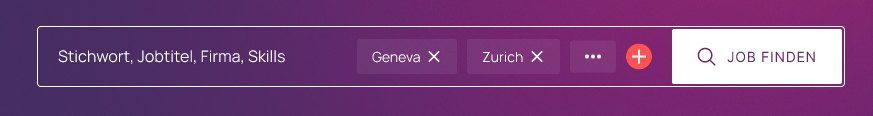
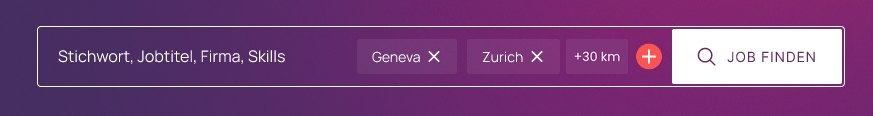
Rocken case: copy, results, monetisation (#20)
* Rocken case: English copy edit, Designer field removed

Claude-Session: https://claude.ai/code/session_01KrCcaaPpT7xGfxyrtmaZ9B

* Rocken case: period matches the About page (May 2022 – Mar 2023)

Claude-Session: https://claude.ai/code/session_01KrCcaaPpT7xGfxyrtmaZ9B

* Rocken case: Findings / Solution instead of Research / Solutions

Claude-Session: https://claude.ai/code/session_01KrCcaaPpT7xGfxyrtmaZ9B

* Rocken case: +30 km radius chip on the search screenshot, described in the solution

Claude-Session: https://claude.ai/code/session_01KrCcaaPpT7xGfxyrtmaZ9B

* Rocken case: search result −26% searches with no results

Claude-Session: https://claude.ai/code/session_01KrCcaaPpT7xGfxyrtmaZ9B

* Rocken Jobs: result +14% visitor-to-application conversion YoY

Claude-Session: https://claude.ai/code/session_01KrCcaaPpT7xGfxyrtmaZ9B

* Rocken Jobs: About, Challenge and Result in three columns

Claude-Session: https://claude.ai/code/session_01KrCcaaPpT7xGfxyrtmaZ9B

* Rocken Talent: colour key for the home page moved from the screenshot into the page

Claude-Session: https://claude.ai/code/session_01KrCcaaPpT7xGfxyrtmaZ9B

* Rocken Talent: monetisation model as three plans with the logic behind the limits

Claude-Session: https://claude.ai/code/session_01KrCcaaPpT7xGfxyrtmaZ9B

* Rocken Talent: monetisation copy tightened

Claude-Session: https://claude.ai/code/session_01KrCcaaPpT7xGfxyrtmaZ9B

* Rocken Talent: monetisation plans as pricing cards
[…]

Changed region(s): [[0.6495, 0.3621, 0.7732, 0.6207]]

diff --git a/index.html b/index.html
@@ -399,6 +399,29 @@ img[src$="rocken-logo.svg"],img[src$="asalart-logo.png"],img[src$="rocken-wordma
 .wr-res{display:flex;align-items:flex-end;justify-content:space-between;gap:16px;background:var(--panel);border-radius:16px;padding:22px 22px 24px;min-height:92px;transition:background-color .45s}
 .wr-res__label{display:inline-flex;align-items:center;gap:8px;font-size:16px;line-height:1.3;color:var(--ink)}
 .wr-res__up{width:12px;height:12px;color:var(--green);flex:none}
+/* Talent monetisation: plans as pricing cards */
+.plans{list-style:none;margin:30px 0 0;padding:0;display:grid;grid-template-columns:repeat(3,minmax(0,1fr));gap:16px;align-items:stretch}
+.plan{display:flex;flex-direction:column;background:var(--panel);border-radius:20px;padding:24px 24px 26px;box-shadow:0 1px 0 var(--tint-05);transition:background-color .45s}
+.plan--free{--plan:#2FA84F;--plan-bg:rgba(129,218,136,.22)}
+.plan--credits{--plan:#8A5CF0;--plan-bg:rgba(181,140,245,.2)}
+.plan--month{--plan:#fff;--plan-bg:rgba(255,255,255,.18);background:linear-gradient(150deg,#3A3FD9 0%,#4C6BF0 55%,#43B6F0 100%);color:#fff}
+.plan__k{align-self:flex-start;margin:0 0 22px;padding:5px 11px;border-radius:999px;background:var(--plan-bg);color:var(--plan);font-size:12px;font-weight:600;letter-spacing:.08em;text-transform:uppercase;line-height:1.2}
+.plan__v{margin:0;font-size:32px;line-height:1.1;font-weight:500;letter-spacing:-.02em;color:var(--ink)}
+.plan__t{margin:6px 0 20px;padding-bottom:20px;border-bottom:1px solid var(--tint-12);font-size:15px;color:var(--muted)}
+.plan--month .plan__v{color:#fff}.plan--month .plan__t{color:rgba(255,255,255,.75);border-color:rgba(255,255,255,.22)}
+.block .plan__list{margin:0;padding:0;list-style:none;display:flex;flex-direction:column;gap:10px;font-size:15px;line-height:1.4;color:var(--ink-2)}
+.block .plan__list li{display:flex;align-items:flex-start;gap:10px;margin:0}
+.plan--month .plan__list{color:#fff!important}
+.plan__ck{width:16px;height:16px;flex:none;margin-top:1px;color:var(--plan)}
+.plan-logic{margin-top:24px}
+@media (max-width:900px){.plans{grid-template-columns:minmax(0,1fr)}}
+.block .goal-key{list-style:none;margin:6px 0 16px;padding:0;display:flex;flex-wrap:wrap;gap:8px 22px;font-size:15px;color:var(--ink-2)}
+.block .goal-key li{display:flex;align-items:center;gap:8px;margin:0}
+.goal-key{transition:opacity .3s}.goal-key.is-off{opacity:0}
+.goal-key i{width:12px;height:12px;border-radius:50%;flex:none}
+.rk-result .res-num{display:block;margin:0 0 4px;font-size:34px;line-height:1.1}
+.rk-result__note{margin:6px 0 0;font-size:14px;color:var(--muted)}
+.res-num{font-size:28px;font-weight:500;letter-spacing:-.01em;color:var(--ink);margin-right:10px;vertical-align:-3px}
 .wr-why{margin-top:28px;max-width:760px;padding-left:20px;border-left:2px solid var(--drop)}
 .wr-why__k{font-weight:600;margin:0 0 6px;color:var(--ink)}
 .wr-why p{margin:0;font-size:16px;line-height:1.55;color:var(--ink-2)}
@@ -473,6 +496,7 @@ img[src$="rocken-logo.svg"],img[src$="asalart-logo.png"],img[src$="rocken-wordma
 .section{padding-top:90px}
 .section__logo{display:block;width:203px;margin:0 auto 100px}
 .two{display:grid;grid-template-columns:repeat(2,minmax(0,1fr));gap:40px}
+.two.two--3{grid-template-columns:repeat(3,minmax(0,1fr))}
 .h2{font-size:25px;font-weight:700;line-height:1.56;margin:0 0 14px}
 .h3{font-size:16px;font-weight:700;margin:0 0 10px}
 .text{font-size:16px;line-height:25px}
@@ -533,7 +557,7 @@ img[src$="rocken-logo.svg"],img[src$="asalart-logo.png"],img[src$="rocken-wordma
 .lightbox__close{position:fixed;top:max(16px,env(safe-area-inset-top,0px));right:max(16px,env(safe-area-inset-right,0px));width:44px;height:44px;border:0;border-radius:50%;background:#fff;color:#000;font:700 22px/1 var(--font);cursor:pointer}
 @media (max-width:900px){
   .meta{grid-template-columns:1fr 1fr}
-  .products,.two,.compare{grid-template-columns:minmax(0,1fr)}
+  .products,.two,.two.two--3,.compare{grid-template-columns:minmax(0,1fr)}
   .sub{grid-template-columns:1fr}
   .subnav{position:static;flex-direction:row;flex-wrap:wrap;gap:8px 20px}
   .personas{grid-template-columns:1fr}
@@ -678,37 +702,36 @@ layout();})();</script></section>
     <div><dt>Role</dt><dd>Product designer</dd></div>
     <div><dt>Category</dt><dd>Human Resources</dd></div>
     <div><dt>Location of product</dt><dd>Switzerland</dd></div>
-    <div><dt>Tools</dt><dd>Figma, Google Analitics, Google Optimize, Hotjar</dd></div>
-    <div><dt>Period of time</dt><dd>May 2022 - till present</dd></div>
-    <div><dt>Designer</dt><dd>Pavlo Chenchyk</dd></div>
+    <div><dt>Tools</dt><dd>Figma, Google Analytics, Google Optimize, Hotjar</dd></div>
+    <div><dt>Period of time</dt><dd>May 2022 – Mar 2023</dd></div>
   </dl>
-  <p class="note">Some data were hidden for privacy reasons</p>
+  <p class="note">Some data is hidden for privacy reasons</p>
 
   <div class="products">
     <article class="product">
       <img src="assets/r-jobs.jpg" width="882" height="541" alt="ROCKEN Jobs — public job listings site" loading="lazy">
       <h3>ROCKEN JOBS</h3>
-      <p class="text">Website to attract applicants with listings vacancies. Potential candidates can find interesting vacancies and apply.</p>
+      <p class="text">A job board that attracts applicants: candidates browse vacancies and apply.</p>
       <a class="btn" href="#rocken-jobs"><svg viewBox="0 0 15 15" fill="none" aria-hidden="true"><path d="M1.8 3l5.632 4.2L13.064 3" stroke="currentColor" stroke-width="1.5"/><path d="M1.8 7.8l5.632 4.2 5.632-4.2" stroke="currentColor" stroke-width="1.5"/></svg>scroll to case</a>
     </article>
     <article class="product">
       <img src="assets/r-crm.jpg" width="882" height="541" alt="ROCKEN CRM — candidates table" loading="lazy">
       <h3>ROCKEN CRM</h3>
-      <p class="text">After applying CVs of applicants get into the CRM system and then will be checked by consultants.<br>CRM provides management:</p>
-      <div class="lists text"><ul><li>candidates</li><li>recruitment processes</li><li>interview</li></ul><ul><li>vacancies</li><li>publications</li><li>recruiting teams</li></ul></div>
+      <p class="text">Once candidates apply, their CVs land in the CRM, where consultants review them.<br>The CRM manages:</p>
+      <div class="lists text"><ul><li>candidates</li><li>recruitment processes</li><li>interviews</li></ul><ul><li>vacancies</li><li>publications</li><li>recruiting teams</li></ul></div>
       <a class="btn" href="#rocken-crm"><svg viewBox="0 0 15 15" fill="none" aria-hidden="true"><path d="M1.8 3l5.632 4.2L13.064 3" stroke="currentColor" stroke-width="1.5"/><path d="M1.8 7.8l5.632 4.2 5.632-4.2" stroke="currentColor" stroke-width="1.5"/></svg>scroll to case</a>
     </article>
     <article class="product">
       <img src="assets/r-talent.jpg" width="882" height="541" alt="ROCKEN Talent — candidate dashboard" loading="lazy">
       <h3>ROCKEN TALENT</h3>
-      <p class="text">Closed service for verified candidates. There they can:</p>
-      <ul class="text"><li>The control process of hiring</li><li>Improve their profiles</li><li>Communicate with consultants</li><li>Search vacancies and explore all the details</li></ul>
+      <p class="text">A private service for verified candidates, where they can:</p>
+      <ul class="text"><li>Track their hiring process</li><li>Improve their profiles</li><li>Communicate with consultants</li><li>Search vacancies and see all the details</li></ul>
       <a class="btn" href="#rocken-talent"><svg viewBox="0 0 15 15" fill="none" aria-hidden="true"><path d="M1.8 3l5.632 4.2L13.064 3" stroke="currentColor" stroke-width="1.5"/><path d="M1.8 7.8l5.632 4.2 5.632-4.2" stroke="currentColor" stroke-width="1.5"/></svg>scroll to case</a>
     </article>
     <article class="product">
       <img src="assets/r-dash.jpg" width="882" height="541" alt="ROCKEN Dashboard — reporting for managers" loading="lazy">
       <h3>ROCKEN DASHBOARD</h3>
-      <p class="text">Dashboard it is a special service for managers of the ROCKEN company for monitoring all processes and timely response on signals.</p>
+      <p class="text">An internal tool for ROCKEN managers to monitor all processes and react to signals in time.</p>
       <a class="btn" href="#rocken-dashboard"><svg viewBox="0 0 15 15" fill="none" aria-hidden="true"><path d="M1.8 3l5.632 4.2L13.064 3" stroke="currentColor" stroke-width="1.5"/><path d="M1.8 7.8l5.632 4.2 5.632-4.2" stroke="currentColor" stroke-width="1.5"/></svg>scroll to case</a>
     </article>
   </div>
@@ -717,52 +740,55 @@ layout();})();</script></section>
   <hr class="rule" id="rocken-jobs">
   <div class="section">
     <img class="section__logo" src="assets/rocken-jobs.png" width="203" height="50" alt="ROCKEN Jobs">
-    <div class="two">
-      <div><h2 class="h2">About</h2><p class="text">The website with listings vacancies to attract applicants. Potential candidates can find interesting vacancies and apply.</p></div>
-      <div><h2 class="h2">Challenge</h2><p class="text">Increase conversion rate to applicants without loss of quality of filling profiles.<br>Refresh of UI.<br>Make it the minimum allowable resources.</p></div>
+    <div class="two two--3">
+      <div><h2 class="h2">About</h2><p class="text">A job board that attracts applicants: candidates browse vacancies and apply.</p></div>
+      <div><h2 class="h2">Challenge</h2><p class="text">Increase the conversion to applications without lowering the quality of filled-in profiles.<br>Refresh the UI.<br>Do it with minimal resources.</p></div>
+      <div class="rk-result"><h2 class="h2">Result</h2><p class="text"><span class="res-num">+14%</span> visitor-to-application conversion</p><p class="rk-result__note">Year over year, compared with the same period</p></div>
     </div>
   </div>
   <hr class="rule">
   <div class="sub">
-    <ul class="subnav"><li><a href="#jobs-search"><svg viewBox="0 0 16 16" fill="none" aria-hidden="true"><path d="M4.116 12.523h8.657m0-8.657v8.657M12.773 12.523 3.227 2.977" stroke="currentColor"/></svg>Search</a></li><li><a href="#jobs-returned"><svg viewBox="0 0 16 16" fill="none" aria-hidden="true"><path d="M4.116 12.523h8.657m0-8.657v8.657M12.773 12.523 3.227 2.977" stroke="currentColor"/></svg>Returned visitors</a></li><li><a href="#jobs-involvement"><svg viewBox="0 0 16 16" fill="none" aria-hidden="true"><path d="M4.116 12.523h8.657m0-8.657v8.657M12.773 12.523 3.227 2.977" stroke="currentColor"/></svg>Involvement blocks</a></li><li><a href="#jobs-apply"><svg viewBox="0 0 16 16" fill="none" aria-hidden="true"><path d="M4.116 12.523h8.657m0-8.657v8.657M12.773 12.523 3.227 2.977" stroke="currentColor"/></svg>Applying form</a></li><li><a href="#jobs-ui"><svg viewBox="0 0 16 16" fill="none" aria-hidden="true"><path d="M4.116 12.523h8.657m0-8.657v8.657M12.773 12.523 3.227 2.977" stroke="currentColor"/></svg>UI</a></li></ul>
+    <ul class="subnav"><li><a href="#jobs-search"><svg viewBox="0 0 16 16" fill="none" aria-hidden="true"><path d="M4.116 12.523h8.657m0-8.657v8.657M12.773 12.523 3.227 2.977" stroke="currentColor"/></svg>Search</a></li><li><a href="#jobs-returned"><svg viewBox="0 0 16 16" fill="none" aria-hidden="true"><path d="M4.116 12.523h8.657m0-8.657v8.657M12.773 12.523 3.227 2.977" stroke="currentColor"/></svg>Returning visitors</a></li><li><a href="#jobs-involvement"><svg viewBox="0 0 16 16" fill="none" aria-hidden="true"><path d="M4.116 12.523h8.657m0-8.657v8.657M12.773 12.523 3.227 2.977" stroke="currentColor"/></svg>Involvement blocks</a></li><li><a href="#jobs-apply"><svg viewBox="0 0 16 16" fill="none" aria-hidden="true"><path d="M4.116 12.523h8.657m0-8.657v8.657M12.773 12.523 3.227 2.977" stroke="currentColor"/></svg>Application form</a></li><li><a href="#jobs-ui"><svg viewBox="0 0 16 16" fill="none" aria-hidden="true"><path d="M4.116 12.523h8.657m0-8.657v8.657M12.773 12.523 3.227 2.977" stroke="currentColor"/></svg>UI</a></li></ul>
     <div>
       <div class="block" id="jobs-search">
         <h2 class="h2">Search</h2>
-        <h3 class="h3">Research</h3>
-        <p class="text">24% of users left the site after getting search results.<br>Some of the requests of the users showed no results. Input area for location looks like required and users can't see results from neighbor cantons, however, some are ready for visiting work there.<br>The site is not a job aggregator and doesn't have &gt;10k vacancies, early filtering limits the search results.</p>
-        <h3 class="h3">Solutions</h3>
-        <p class="text">Was decided to change the realization of the search input area. Location becomes like additional function.</p>
+        <h3 class="h3">Findings</h3>
+        <p class="text">24% of users left the site after seeing search results.<br>Some searches returned no results. The location field looked mandatory, so users didn&#8217;t see jobs in neighbouring cantons, even though some were ready to commute there.<br>The site isn&#8217;t a job aggregator and has fewer than 10k vacancies, so filtering too early cuts the results down.</p>
+        <h3 class="h3">Solution</h3>
+        <p class="text">We reworked the search field: location became an optional filter.<br>Users can also widen the search with a radius around the chosen cities (+30&nbsp;km), so jobs in neighbouring cantons show up too.</p>
         <p class="label">Before</p>
         <div class="fig"><img src="assets/search-before.jpg" width="873" height="116" alt="Old search: keyword field, separate location field, Job finden button" loading="lazy"></div>
         <p class="label">After</p>
-        <div class="stack fig"><img src="assets/search-after1.jpg" width="873" height="135" alt="New search: one keyword field with an optional Standort control" loading="lazy"><img src="assets/search-after2.jpg" width="873" height="116" alt="New search with location chips Geneva and Zurich" loading="lazy"></div>
+        <div class="stack fig"><img src="assets/search-after1.jpg" width="873" height="135" alt="New search: one keyword field with an optional Standort control" loading="lazy"><img src="assets/search-after2.jpg?v=2" width="873" height="116" alt="New search with location chips Geneva and Zurich and a +30 km radius" loading="lazy"></div>
+        <h3 class="h3" style="margin-top:44px">Result</h3>
+        <p class="text"><span class="res-num">&minus;26%</span> searches with no results</p>
       </div>
 
       <div class="block" id="jobs-returned">
-        <h2 class="h2">Features for returned visitors</h2>
-        <h3 class="h3">Research</h3>
-        <p class="text">38% of all traffic is returning users. The site didn't have any functions for this auditory.</p>
-        <h3 class="h3">Solutions</h3>
-        <p class="text">For returned visitors were added two fitches.</p>
+        <h2 class="h2">Features for returning visitors</h2>
+        <h3 class="h3">Findings</h3>
+        <p class="text">Returning users made up 38% of all traffic, but the site had nothing for this audience.</p>
+        <h3 class="h3">Solution</h3>
+        <p class="text">We added two features for returning visitors:</p>
         <div class="annot" style="margin-top:30px"><img src="assets/returned.jpg" width="951" height="802" alt="Home page with a previous search bar and a Viewed vacancies row" loading="lazy"><span style="top:9%">/ previous search</span><span style="top:52%">/ viewed vacancies</span></div>
       </div>
 
       <div class="block" id="jobs-involvement">
         <h2 class="h2">Involvement blocks</h2>
-        <h3 class="h3">Research</h3>
-        <p class="text">The most popular page for entering is home page, but 21% of users left the site there.</p>
-        <h3 class="h3">Solutions</h3>
-        <p class="text">Suggest to users more helpful information</p>
-        <ul class="text"><li>The latest added vacancies are filtered by area and location.</li><li>Statistics on the number of vacancies by city and industry,</li></ul>
+        <h3 class="h3">Findings</h3>
+        <p class="text">The home page was the most common entry point, but 21% of users left right there.</p>
+        <h3 class="h3">Solution</h3>
+        <p class="text">Show users more useful information:</p>
+        <ul class="text"><li>The latest vacancies, filtered by field and location</li><li>Vacancy statistics by city and industry</li></ul>
         <div class="fig" style="margin-top:30px"><img src="assets/involvement.jpg" width="870" height="870" alt="Latest jobs block and a Number of vacancies chart by city" loading="lazy"></div>
       </div>
 
       <div class="block" id="jobs-apply">
-        <h2 class="h2">Applying form</h2>
-        <h3 class="h3">Research</h3>
-        <p class="text">55% of visitors didn't fill it out and left this page.<br>To find a solution was analyzed application processing process of recruiters. Were found one more issue: Some recruiters have to ask for references and certificates from applicants additionally because they didn't attach them in apply.</p>
-        <h3 class="h3">Solutions</h3>
-        <p class="text">Hide some input areas with not important information on the first step. <br>Add split types of documents in the attached form.</p>
+        <h2 class="h2">Application form</h2>
+        <h3 class="h3">Findings</h3>
+        <p class="text">55% of visitors left this page without filling in the form.<br>To find a solution, we analysed how recruiters process applications, and found one more issue: recruiters often had to ask applicants for references and certificates separately, because they weren&#8217;t attached to the application.</p>
+        <h3 class="h3">Solution</h3>
+        <p class="text">Hide less important fields from the first step.<br>Split the uploads into document types in the attachment form.</p>
         <p class="hint">Click on a picture for zoom</p>
         <div class="compare">
           <div><p class="label">Before</p><a class="zoom" href="assets/apply-before.jpg" role="button" aria-label="Zoom: Old application form with many fields"><img src="assets/apply-before.jpg" width="1000" height="860" alt="Old application form with many fields" loading="lazy"></a></div>
@@ -786,9 +812,9 @@ layout();})();</script></section>
   <div class="section">
     <img class="section__logo" src="assets/rocken-crm.png" width="203" height="50" alt="ROCKEN CRM">
     <div class="two">
-      <div><h2 class="h2">About</h2><p class="text">After applying CVs of applicants get into the CRM system and then will be checked by consultants.<br>CRM provides management:</p>
-        <div class="lists text" style="display:grid;grid-template-columns:1fr 1fr;max-width:460px;margin-top:10px"><ul><li>candidates</li><li>recruitment processes</li><li>interview</li></ul><ul><li>vacancies</li><li>publications</li><li>recruiting teams</li></ul></div></div>
-      <div><h2 class="h2">Challenge</h2><p class="text">Suggest new UI design based on Candidates page.</p></div>
+      <div><h2 class="h2">About</h2><p class="text">Once candidates apply, their CVs land in the CRM, where consultants review them.<br>The CRM manages:</p>
+        <div class="lists text" style="display:grid;grid-template-columns:1fr 1fr;max-width:460px;margin-top:10px"><ul><li>candidates</li><li>recruitment processes</li><li>interviews</li></ul><ul><li>vacancies</li><li>publications</li><li>recruiting teams</li></ul></div></div>
+      <div><h2 class="h2">Challenge</h2><p class="text">Propose a new UI design, starting with the Candidates page.</p></div>
     </div>
   </div>
   <hr class="rule">
@@ -806,34 +832,34 @@ layout();})();</script></section>
   <div class="section">
     <img class="section__logo" src="assets/rocken-talent.png" width="203" height="50" alt="ROCKEN Talent">
     <div class="two">
-      <div><h2 class="h2">About</h2><p class="text">Closed service for verified candidates. There they can:</p><ul class="text"><li>The control process of hiring</li><li>Improve their profiles</li><li>Communicate with consultants</li><li>Search vacancies and explore all the details</li></ul></div>
-      <div><h2 class="h2">Challenge</h2><p class="text">1. Connection with the refactoring of the product has an opportunity to make a full redesign.<br><br>2. Prepare and suggest a system of monetization for employers in the service.</p></div>
+      <div><h2 class="h2">About</h2><p class="text">A private service for verified candidates, where they can:</p><ul class="text"><li>Track their hiring process</li><li>Improve their profiles</li><li>Communicate with consultants</li><li>Search vacancies and see all the details</li></ul></div>
+      <div><h2 class="h2">Challenge</h2><p class="text">1. The product was being refactored, which gave us a chance to do a full redesign.<br><br>2. Design and propose a monetisation model for employers on the service.</p></div>
     </div>
   </div>
   <hr class="rule">
   <div class="sub">
-    <ul class="subnav"><li><a href="#talent-users"><svg viewBox="0 0 16 16" fill="none" aria-hidden="true"><path d="M4.116 12.523h8.657m0-8.657v8.657M12.773 12.523 3.227 2.977" stroke="currentColor"/></svg>Users</a></li><li><a href="#talent-home"><svg viewBox="0 0 16 16" fill="none" aria-hidden="true"><path d="M4.116 12.523h8.657m0-8.657v8.657M12.773 12.523 3.227 2.977" stroke="currentColor"/></svg>Home page</a></li><li><a href="#talent-profile"><svg viewBox="0 0 16 16" fill="none" aria-hidden="true"><path d="M4.116 12.523h8.657m0-8.657v8.657M12.773 12.523 3.227 2.977" stroke="currentColor"/></svg>Profile</a></li><li><a href="#talent-jobs"><svg viewBox="0 0 16 16" fill="none" aria-hidden="true"><path d="M4.116 12.523h8.657m0-8.657v8.657M12.773 12.523 3.227 2.977" stroke="currentColor"/></svg>Job Search</a></li></ul>
+    <ul class="subnav"><li><a href="#talent-users"><svg viewBox="0 0 16 16" fill="none" aria-hidden="true"><path d="M4.116 12.523h8.657m0-8.657v8.657M12.773 12.523 3.227 2.977" stroke="currentColor"/></svg>Users</a></li><li><a href="#talent-home"><svg viewBox="0 0 16 16" fill="none" aria-hidden="true"><path d="M4.116 12.523h8.657m0-8.657v8.657M12.773 12.523 3.227 2.977" stroke="currentColor"/></svg>Home page</a></li><li><a href="#talent-profile"><svg viewBox="0 0 16 16" fill="none" aria-hidden="true"><path d="M4.116 12.523h8.657m0-8.657v8.657M12.773 12.523 3.227 2.977" stroke="currentColor"/></svg>Profile</a></li><li><a href="#talent-jobs"><svg viewBox="0 0 16 16" fill="none" aria-hidden="true"><path d="M4.116 12.523h8.657m0-8.657v8.657M12.773 12.523 3.227 2.977" stroke="currentColor"/></svg>Job search</a></li><li><a href="#talent-monetization"><svg viewBox="0 0 16 16" fill="none" aria-hidden="true"><path d="M4.116 12.523h8.657m0-8.657v8.657M12.773 12.523 3.227 2.977" stroke="currentColor"/></svg>Monetisation</a></li></ul>
     <div>
       <div class="block" id="talent-users">
         <h2 class="h2">Users</h2>
-        <p class="text"><strong>What do we want to motivate users to do:</strong></p>
-        <ul class="text"><li>Improving a profile</li><li>Search vacancies</li><li>Replies to requests</li></ul>
-        <p class="text" style="margin-top:30px"><strong>Who are our users and what is their motivation:</strong></p>
+        <p class="text"><strong>What we want to motivate users to do:</strong></p>
+        <ul class="text"><li>Improve their profile</li><li>Search vacancies</li><li>Reply to requests</li></ul>
+        <p class="text" style="margin-top:30px"><strong>Who our users are and what motivates them:</strong></p>
         <div class="personas">
           <div class="persona">
             <img class="persona__tag" src="assets/persona-tag-tom.png" width="200" height="28" alt="Candidate Driven Market">
             <div class="persona__head"><img src="assets/tom.jpg" width="150" height="150" alt="Tom"><div><p class="persona__name">Tom</p><p class="text">Senior Developer</p><p class="text persona__quote">He has a good job but is open to new opportunities.</p></div></div>
             <h3 class="h3">Motivations</h3>
-            <p class="text">Career and Professional growing</p><ul class="text"><li>Perspective project</li><li>Sharing skills in a strong team</li></ul>
-            <p class="text">Work-life balance</p><ul class="text"><li>Nearer location to home</li><li>Flexible working time</li></ul>
+            <p class="text">Career and professional growth</p><ul class="text"><li>Promising projects</li><li>Sharing skills in a strong team</li></ul>
+            <p class="text">Work-life balance</p><ul class="text"><li>Working closer to home</li><li>Flexible working time</li></ul>
             <p class="text">Get a job with a bigger salary</p>
           </div>
           <div class="vline" aria-hidden="true"></div>
           <div class="persona">
             <img class="persona__tag" src="assets/persona-tag-diana.png" width="190" height="28" alt="Employer Driven Market">
-            <div class="persona__head"><img src="assets/diana.jpg" width="150" height="150" alt="Diana"><div><p class="persona__name">Diana</p><p class="text">Junior Sales Manager</p><p class="text persona__quote">She has a first job with a small salary which depends on the effectiveness</p></div></div>
+            <div class="persona__head"><img src="assets/diana.jpg" width="150" height="150" alt="Diana"><div><p class="persona__name">Diana</p><p class="text">Junior Sales Manager</p><p class="text persona__quote">She has her first job, with a small salary that depends on her performance</p></div></div>
             <h3 class="h3">Motivations</h3>
-            <p class="text">Career and Professional growing</p><ul class="text"><li>Get new skills and knowledge</li><li>Become demanded specialists</li></ul>
+            <p class="text">Career and professional growth</p><ul class="text"><li>Get new skills and knowledge</li><li>Become an in-demand specialist</li></ul>
             <p class="text">Get a job with a bigger salary</p>
           </div>
         </div>
@@ -841,15 +867,20 @@ layout();})();</script></section>
 
       <div class="block" id="talent-home">
         <h2 class="h2">Home page</h2>
-        <p class="text">The profile page was used like the home page. It doesn't show any useful and motivating information.</p>
+        <p class="text">The profile page was used as the home page. It showed nothing useful or motivating.</p>
         <p class="hint">Click on a picture for zoom</p>
         <p class="label">Before</p>
         <a class="zoom zoom--crop" href="assets/home-before.jpg" role="button" aria-label="Zoom: Old ROCKEN Talent profile page used as home, full length"><img src="assets/home-before.jpg" width="800" height="2707" alt="Old ROCKEN Talent profile page used as home, full length" loading="lazy"></a>
-        <p class="text" style="margin-top:40px">Make the home page like a dashboard of a career.<br>Use features to the motivation of users.</p>
+        <p class="text" style="margin-top:40px">We turned the home page into a career dashboard,<br>with features that motivate users.</p>
         <p class="label">After</p>
+        <ul class="goal-key" aria-label="Colour key for the first screen">
+          <li><i style="background:#FF8F51"></i>Improving a profile</li>
+          <li><i style="background:#5873FF"></i>Search and vacancy listing</li>
+          <li><i style="background:#81DA88"></i>Replying to requests</li>
+        </ul>
         <div class="slider">
           <div class="slider__track">
-            <div class="slider__slide"><a class="zoom zoom--crop" href="assets/home-after1.jpg" role="button" aria-label="Zoom: New ROCKEN Talent home page as a career dashboard, variant 1"><img src="assets/home-after1.jpg" width="800" height="1322" alt="New ROCKEN Talent home page as a career dashboard, variant 1" loading="lazy"></a></div>
+            <div class="slider__slide"><a class="zoom zoom--crop" href="assets/home-after1.jpg?v=2" role="button" aria-label="Zoom: New ROCKEN Talent home page as a career dashboard, variant 1"><img src="assets/home-after1.jpg?v=2" width="800" height="1322" alt="New ROCKEN Talent home page as a career dashboard, variant 1" loading="lazy"></a></div>
             <div class="slider__slide"><a class="zoom zoom--crop" href="assets/home-after2.jpg" role="button" aria-label="Zoom: New ROCKEN Talent home page as a career dashboard, variant 2"><img src="assets/home-after2.jpg" width="800" height="1322" alt="New ROCKEN Talent home page as a career dashboard, variant 2" loading="lazy"></a></div>
           </div>
           <div class="slider__btns"><button type="button" class="prev" aria-label="Previous">&larr;</button><span class="slider__count text" aria-live="polite"></span><button type="button" class="next" aria-label="Next">&rarr;</button></div>
@@ -858,15 +889,15 @@ layout();})();</script></section>
 
       <div class="block" id="talent-profile">
         <h2 class="h2">Profile</h2>
-        <p class="text">The profile page included all information about the user. <br>Was suggested split information into logical groups.</p>
+        <p class="text">The profile page held all the user&#8217;s information on one page.<br>We split it into logical groups.</p>
         <div class="fig" style="max-width:341px;margin-top:14px"><img src="assets/profile-nav.jpg" width="365" height="197" alt="Profile navigation: Personal, Professional, Interview, My request for a job, Profile preview" loading="lazy"></div>
-        <p class="text" style="margin-top:40px">76% of users have more than 40 skills, and the stars system of rate looks too noisy, one and two stars skills look underrated.<br>Was saggested 3 levels rate "Advanced", "Confident", "Elementary",</p>
+        <p class="text" style="margin-top:40px">76% of users have more than 40 skills, so the star rating looked too noisy, and one- or two-star skills looked underrated.<br>We suggested a three-level rating: &#8220;Advanced&#8221;, &#8220;Confident&#8221;, &#8220;Elementary&#8221;.</p>
         <div class="compare">
           <div><p class="label">Before</p><a class="zoom" href="assets/profile-before.jpg" role="button" aria-label="Zoom: Skills with five-star ratings"><img src="assets/profile-before.jpg" width="561" height="878" alt="Skills with five-star ratings" loading="lazy"></a></div>
           <div><p class="label">After</p><a class="zoom" href="assets/profile-after.jpg" role="button" aria-label="Zoom: Skills as chips with three-level rating dots"><img src="assets/profile-after.jpg" width="611" height="775" alt="Skills as chips with three-level rating dots" loading="lazy"></a></div>
         </div>
-        <p class="text" style="margin-top:50px">For editing, profiles used a lot of complex pop-ups. It was causing issues for programmers.</p>
-        <p class="text">It was suggested to "Edit mode" with navigation, a fixed panel for saving, and amount changes.</p>
+        <p class="text" style="margin-top:50px">Editing a profile relied on many complex pop-ups, which caused problems for developers.</p>
+        <p class="text">We suggested an &#8220;Edit mode&#8221; with navigation and a fixed panel showing the number of changes and a save button.</p>
         <p class="hint">Click on a picture for zoom</p>
         <div class="compare">
           <div><p class="label">Before</p><a class="zoom" href="assets/edit-before.jpg" role="button" aria-label="Zoom: Old skills editing pop-up"><img src="assets/edit-before.jpg" width="1100" height="831" alt="Old skills editing pop-up" loading="lazy"></a></div>
@@ -876,8 +907,8 @@ layout();})();</script></section>
 
       <div class="block" id="talent-jobs">
         <h2 class="h2">Job search</h2>
-        <p class="text">In addition to the general redesign, the following was added: </p>
-        <ul class="text"><li>Filters</li><li>Fast overview of vacancy</li><li>Saved search with preset filters</li></ul>
+        <p class="text">On top of the general redesign, we added:</p>
+        <ul class="text"><li>Filters</li><li>Quick vacancy preview</li><li>Saved searches with preset filters</li></ul>
         <p class="hint">Click on a picture for zoom</p>
         <div class="compare">
           <div><p class="label">Before</p><a class="zoom" href="assets/job-before.jpg" role="button" aria-label="Zoom: Old vacancy page"><img src="assets/job-before.jpg" width="700" height="837" alt="Old vacancy page" loading="lazy"></a></div>
@@ -890,9 +921,32 @@ layout();})();</script></section>
       </div>
 
       <div class="block" id="talent-monetization">
-        <h2 class="h2">Monetization model</h2>
-        <p class="text">Monetization is closely related to UX design because customers are willing to pay for convenience but should be made programmed inconvenience too.</p>
-        <div class="fig fig--wide" style="margin-top:30px"><a class="zoom" href="assets/monetization.jpg" role="button" aria-label="Zoom: Monetization flow: free publications and profiles, paid push-ups, unlimited publications, internal currency and monthly unlock"><img src="assets/monetization.jpg" width="1415" height="706" alt="Monetization flow: free publications and profiles, paid push-ups, unlimited publications, internal currency and monthly unlock" loading="lazy"></a></div>
+        <h2 class="h2">Monetisation model</h2>
+        <p class="text">The business asked me to propose how the service could make money.<br>It stays free for candidates. Employers pay for access to them, and convenience is what they pay for.</p>
+        <ul class="plans">
+          <li class="plan plan--free">
+            <p class="plan__k">Free</p>
+            <p class="plan__v">€0</p>
+            <p class="plan__t">See the value</p>
+            <ul class="plan__list"><li><svg class="plan__ck" viewBox="0 0 16 16" fill="none" aria-hidden="true"><path d="M3.5 8.5l3 3 6-7" stroke="currentColor" stroke-width="1.8" stroke-linecap="round" stroke-linejoin="round"/></svg>3 vacancies</li><li><svg class="plan__ck" viewBox="0 0 16 16" fill="none" aria-hidden="true"><path d="M3.5 8.5l3 3 6-7" stroke="currentColor" stroke-width="1.8" stroke-linecap="round" stroke-linejoin="round"/></svg>Basic profiles, one category</li><li><svg class="plan__ck" viewBox="0 0 16 16" fill="none" aria-hidden="true"><path d="M3.5 8.5l3 3 6-7" stroke="currentColor" stroke-width="1.8" stroke-linecap="round" stroke-linejoin="round"/></svg>4 contact requests</li></ul>
+          </li>
+          <li class="plan plan--credits">
+            <p class="plan__k">Pay as you go</p>
+            <p class="plan__v">Credits</p>
+            <p class="plan__t">Pay per need</p>
+            <ul class="plan__list"><li><svg class="plan__ck" viewBox="0 0 16 16" fill="none" aria-hidden="true"><path d="M3.5 8.5l3 3 6-7" stroke="currentColor" stroke-width="1.8" stroke-linecap="round" stroke-linejoin="round"/></svg>Experience and salary filters</li><li><svg class="plan__ck" viewBox="0 0 16 16" fill="none" aria-hidden="true"><path d="M3.5 8.5l3 3 6-7" stroke="currentColor" stroke-width="1.8" stroke-linecap="round" stroke-linejoin="round"/></svg>Extra contact requests</li><li><svg class="plan__ck" viewBox="0 0 16 16" fill="none" aria-hidden="true"><path d="M3.5 8.5l3 3 6-7" stroke="currentColor" stroke-width="1.8" stroke-linecap="round" stroke-linejoin="round"/></svg>Vacancy boost</li></ul>
+          </li>
+          <li class="plan plan--month">
+            <p class="plan__k">Monthly</p>
+            <p class="plan__v">Subscription</p>
+            <p class="plan__t">Hire at scale</p>
+            <ul class="plan__list"><li><svg class="plan__ck" viewBox="0 0 16 16" fill="none" aria-hidden="true"><path d="M3.5 8.5l3 3 6-7" stroke="currentColor" stroke-width="1.8" stroke-linecap="round" stroke-linejoin="round"/></svg>Unlimited vacancies</li><li><svg class="plan__ck" viewBox="0 0 16 16" fill="none" aria-hidden="true"><path d="M3.5 8.5l3 3 6-7" stroke="currentColor" stroke-width="1.8" stroke-linecap="round" stroke-linejoin="round"/></svg>All features</li></ul>
+          </li>
+        </ul>
+        <ul class="text plan-logic">
+          <li>Limits hit at peak interest: the 4th vacancy, the 5th request, a long list to filter</li>
+          <li>Credits for occasional hiring, a subscription for regular hiring</li>
+        </ul>
       </div>
     </div>
   </div>
@@ -902,15 +956,15 @@ layout();})();</script></section>
   <div class="section">
     <img class="section__logo" src="assets/rocken-dashboard.png" width="203" height="50" alt="ROCKEN Dashboard">
     <div class="two">
-      <div><h2 class="h2">About</h2><p class="text">Dashboard it is a special service for managers of the ROCKEN company for monitoring all processes and timely response on signals.</p></div>
-      <div><h2 class="h2">Challenge</h2><p class="text">Build from the existing tabular reports a flexible reporting system for managers. Make all data visible and convenient for comparison. </p></div>
+      <div><h2 class="h2">About</h2><p class="text">An internal tool for ROCKEN managers to monitor all processes and react to signals in time.</p></div>
+      <div><h2 class="h2">Challenge</h2><p class="text">Turn the existing spreadsheet reports into a flexible reporting system for managers, with all data visible and easy to compare.</p></div>
     </div>
   </div>
   <hr class="rule">
   <div class="section" style="padding-top:40px">
     <h2 class="h2">Solution</h2>
     <div class="solution">
-      <div class="text">For the base structure was took the 2-columns system.<br>Pluses of the solution: <br><ul><li>It gives a flexible height of reports.</li><li>Roll up and unroll additional information.</li><li>Change the sorting of reports for Different roles of users.</li></ul><br>Based on interviews were highlighted key signals and founded relevant visual solutions.</div>
+      <div class="text">We based the structure on a two-column layout.<br>Its advantages:<br><ul><li>Reports can have flexible heights</li><li>Additional information can be collapsed and expanded</li><li>Reports can be reordered for different user roles</li></ul><br>Based on interviews, we identified the key signals and found the right visual form for each.</div>
       <img src="assets/personas-shapes.svg" width="176" height="194" alt="Two-column layout scheme with collapsible blocks">
     </div>
     <p class="hint">Click on a picture for zoom</p>
@@ -1567,7 +1621,7 @@ layout();})();</script></section>
   // sliders
   document.querySelectorAll('.slider').forEach(function(s){
     var slides=s.querySelectorAll('.slider__slide'),i=0,n=slides.length;
-    function go(k){i=(k+n)%n;slides.forEach(function(sl){sl.style.transform='translateX('+(-i*100)+'%)';});s.querySelector('.slider__count').textContent=(i+1)+' / '+n;}
+    function go(k){i=(k+n)%n;slides.forEach(function(sl){sl.style.transform='translateX('+(-i*100)+'%)';});s.querySelector('.slider__count').textContent=(i+1)+' / '+n;var k=s.previousElementSibling;if(k&&k.classList.contains('goal-key'))k.classList.toggle('is-off',i!==0);}
     s.querySelector('.prev').addEventListener('click',function(){go(i-1)});
     s.querySelector('.next').addEventListener('click',function(){go(i+1)});
     go(0);
